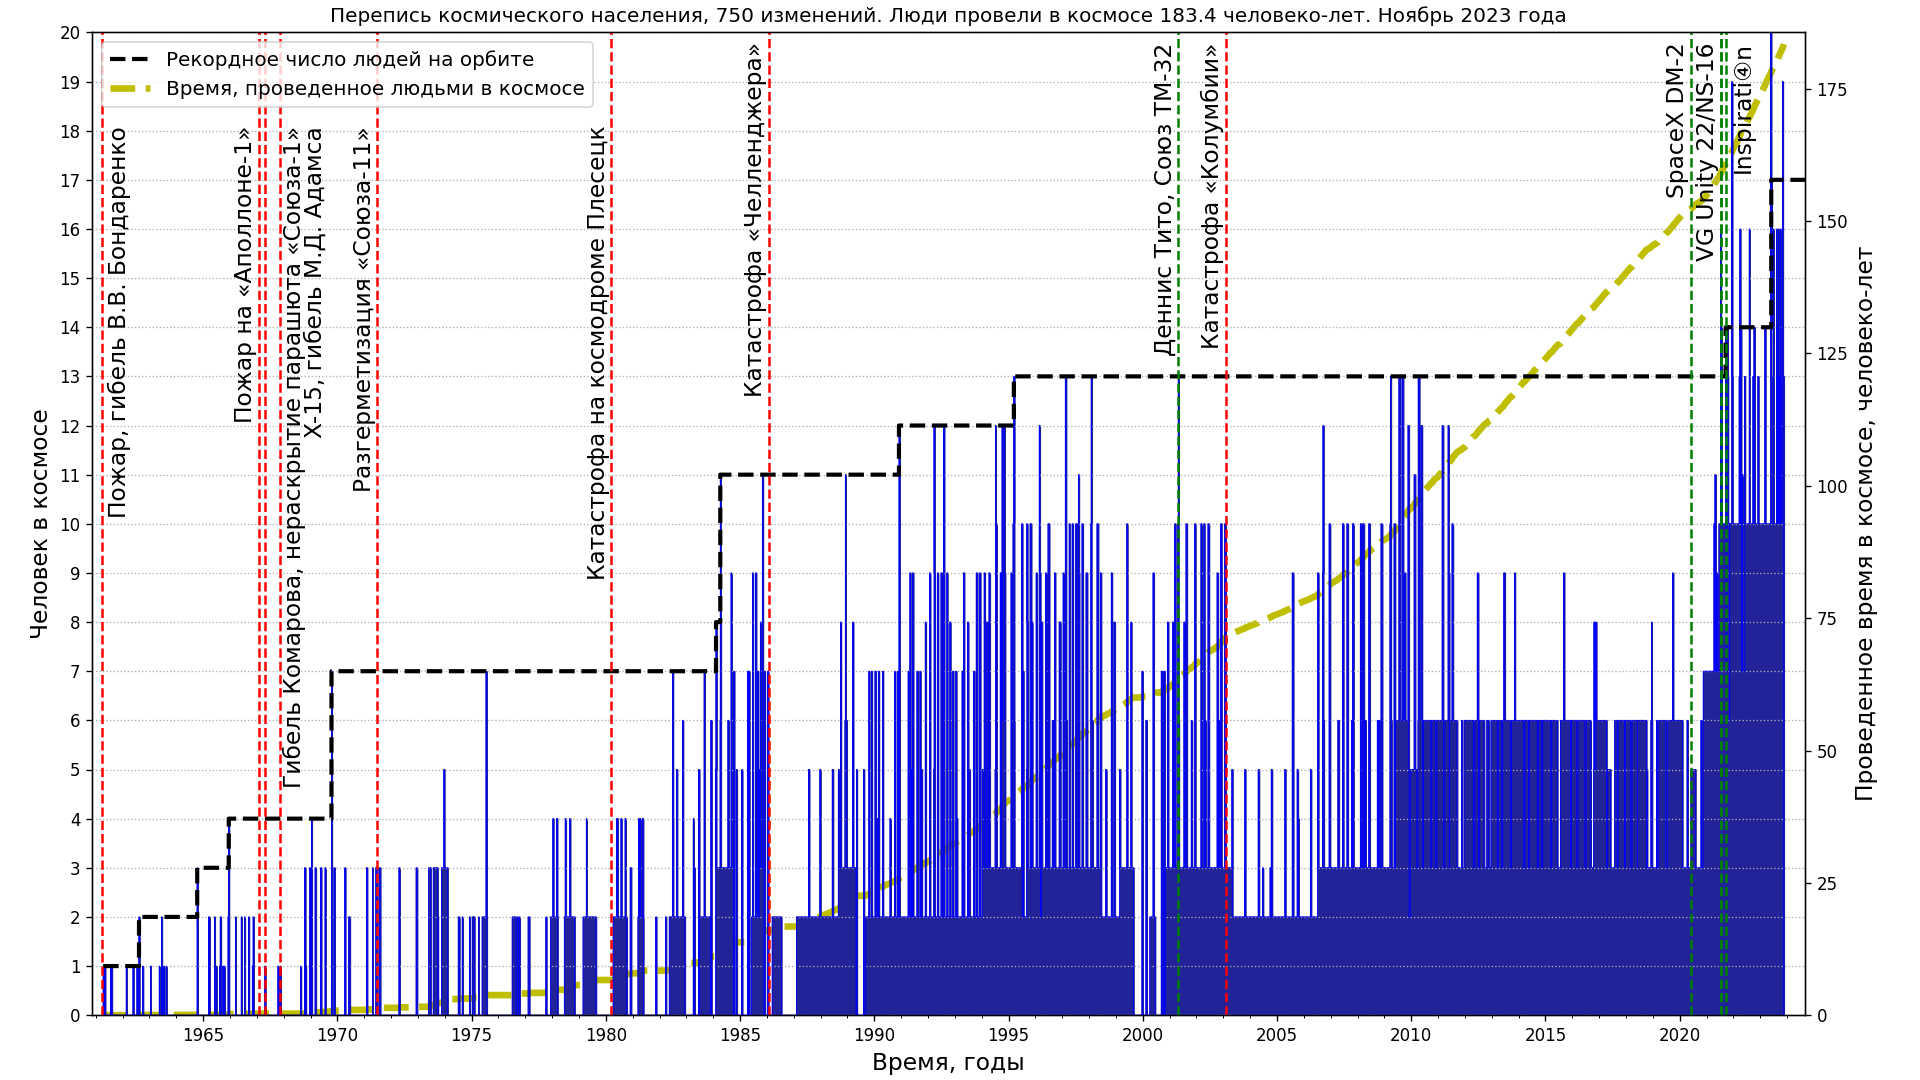
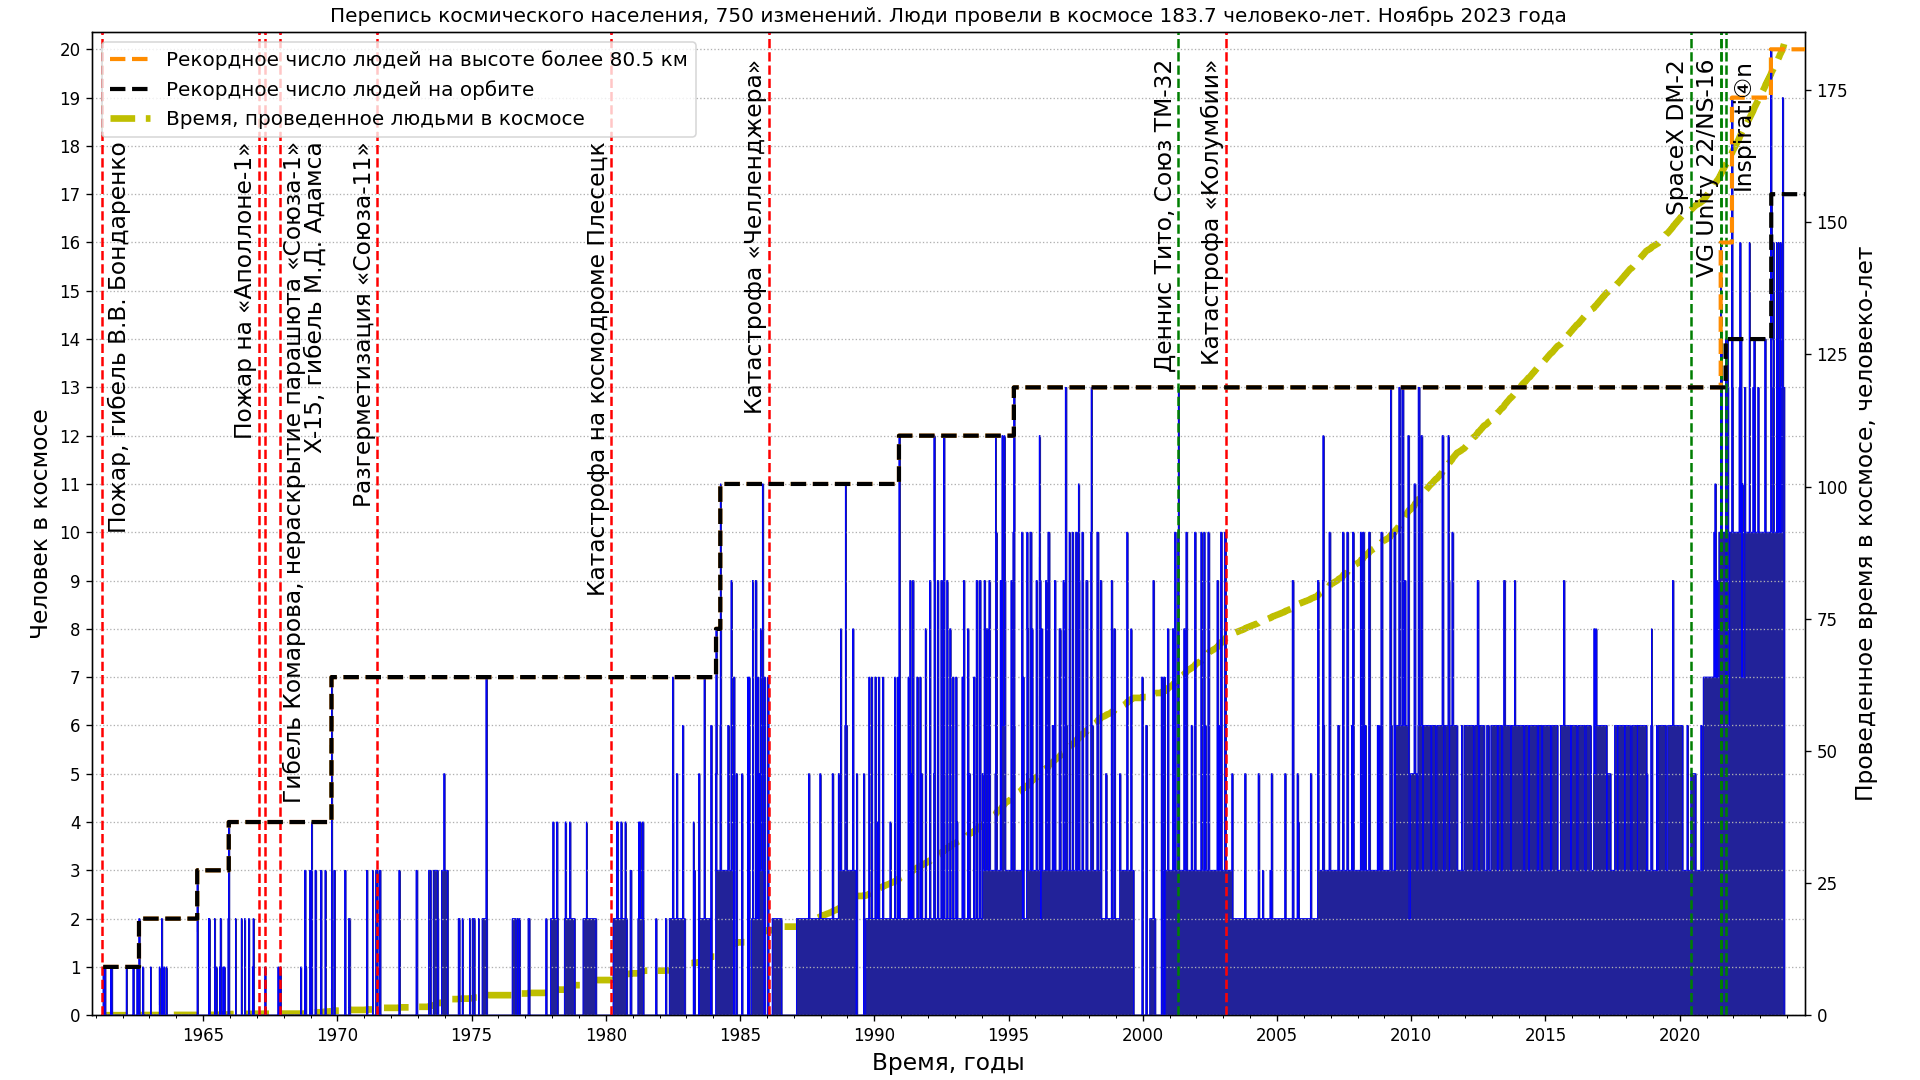
Update plots and code, new GCVS data update

diff --git a/src/astrodata/manned/plot_space_population_graph.py b/src/astrodata/manned/plot_space_population_graph.py
@@ -203,13 +203,13 @@ for i, tr in enumerate(data[3:]):
         "recop": int(tds[4].text),
     })
 
-dataj = dataj[::-1]
 mjds = mjds[::-1]
 nums = nums[::-1]
 orbnums = orbnums[::-1]
 recsnums = recsnums[::-1]
 reconums = reconums[::-1]
 reconums.append(reconums[-1])
+recsnums.append(recsnums[-1])
 dats = dats[::-1]
 for i, nn in enumerate(nums):
     if i:
@@ -217,6 +217,10 @@ for i, nn in enumerate(nums):
     manyr_sums.append(sum(manyrs))
 manyrs.append((Time.now().mjd - mjds[i - 1]) * nums[i - 1] / 365.2425)
 manyr_sums.append(sum(manyrs))
+
+# For reverse chronological order comment this lines:
+dataj = dataj[::-1]
+datac = datac[::-1]
 
 fig, ax = plt.subplots(figsize=(16, 9))
 fig.subplots_adjust(0.048, 0.06, 0.94, 0.97)  # 0.99
@@ -249,8 +253,10 @@ if not args.method:
     else:
         ax.step(data_to_plot, nums_to_plot, "b", where="post", lw=LW,
                 label="Число людей в космосе (высота >80 км)")
+    ax.step(dats_rec, recsnums, "--", where="post", lw=2.5, color="darkorange",
+            label="Рекордное число людей на высоте более 80.5 км", zorder=3)
     ax.step(dats_rec, reconums, "--k", where="post", lw=2.5,
-            label="Рекордное число людей на орбите")
+            label="Рекордное число людей на орбите", zorder=4)
 else:
     ax.stairs(nums, data_to_plot, fill=args.filled, alpha=1, color="b")  # baseline=None
 
@@ -269,14 +275,15 @@ if args.spent:
     ax2.set_ylabel(f'{msgs["ttimelbl"]}, {msgs["manyr"]}', fontsize=14)
 ax.set_facecolor("none")
 ax.set_zorder(1)
-YLIM = 20
+YSHIFT = 0.35
+YLIM = 20 + YSHIFT
 ax.set_ylim(0, YLIM)
 ax.set_xlabel(msgs["xlbl"], fontsize=14)
 ax.set_ylabel(msgs["ylbl3"], fontsize=14)
 
 TM = timedelta(weeks=48)
 TM_SHIFT = timedelta(weeks=12)
-SH, SH2 = 0.2, 1.9  # 1.2
+SH, SH2 = 0.2 + YSHIFT, 1.9 + YSHIFT
 accidents = [
     # (1960, 10, 24, 'Катастрофа на космодроме Байконур, МБР Р-16', SH, TM),
     (1961, 3, 23, msgs["fb"], SH2, -TM_SHIFT),
@@ -323,10 +330,11 @@ plt.title(
 METHD = "stairs" if args.method else "steps"
 FILENAME = f"spacepop-{'spent-' if args.spent else ''}{METHD}{'-filled' if args.filled else ''}"
 
+LOC = "-ru" if args.translate else ""
 FILE_EXT = "png"
 plots_dir = os.path.join(os.pardir, os.pardir, os.pardir, "plots", "manned")
-tmp_pth = os.path.join(plots_dir, f"{FILENAME}_.{FILE_EXT}")
-pth = os.path.join(plots_dir, f"{FILENAME}.{FILE_EXT}")
+tmp_pth = os.path.join(plots_dir, f"{FILENAME}{LOC}_.{FILE_EXT}")
+pth = os.path.join(plots_dir, f"{FILENAME}{LOC}.{FILE_EXT}")
 plt.savefig(tmp_pth, dpi=120)
 
 if FILE_EXT == "svg":

diff --git a/src/astrodata/stars/plot_variable_stars_counts.py b/src/astrodata/stars/plot_variable_stars_counts.py
@@ -139,6 +139,7 @@ gcvs_dates = [
         "2004-01-01", "2009-06-07",
         "2011-04-03", "2012-02-26", "2013-04-30", "2016-12-31", "2018-09-17",
         "2020-07-06", "2022-03-31",
+        "2023-11-10",
     ]
 ]
 gcvs_nums = [
@@ -150,9 +151,10 @@ gcvs_nums = [
     38.624, 41.639,
     43.675, 45.835, 47.969, 52.011, 52.011,
     54.979, 58.202,
+    59.279,
 ]
-gcvs_dates.append(today)
-gcvs_nums.append(gcvs_nums[-1])
+# gcvs_dates.append(today)
+# gcvs_nums.append(gcvs_nums[-1])
 
 fig, ax = plt.subplots(figsize=(16, 9))
 plt.ylim(0, vsx_nums[-1] + 60)
@@ -167,7 +169,11 @@ plt.plot(
 )
 plt.plot(
     [datetime(2023, 6, 4)], [124.100], "*k", ms=12,
-    label="Транзиенты и вспышки сверхновых, >121700 вспышек и >124100 транзиентов",
+    # label="Транзиенты и вспышки сверхновых, >121700 вспышек и >124100 транзиентов",
+)
+plt.plot(
+    [datetime(2023, 11, 20)], [134.393], "*k", ms=12,
+    label="Транзиенты и вспышки сверхновых, более 134300 транзиентов",
 )
 plt.title(
     f"Количество переменных звезд. Всего {vsx_vars} звезд в VSX, "
@@ -192,7 +198,7 @@ if FILE_EXT == "svg":
     os.remove(TMP_PTH)
 
 fig, ax = plt.subplots(figsize=(16, 9))
-plt.ylim(0, 60)
+plt.ylim(0, 62)
 td = timedelta(weeks=60)
 plt.xlim(gcvs_dates[0] - td, today + td)
 plt.subplots_adjust(left=0.06, bottom=0.06, right=0.97, top=0.955)
@@ -202,8 +208,7 @@ plt.plot(
     label="Именованные переменные звезды в ОКПЗ, 58035 звезд",
 )
 plt.title(
-    f"Количество переменных звезд. Всего {vsx_vars} звезд в VSX, "
-    + f"{round(vsx_vars/9948644.04, 2)}% переменных звезд исследовано. "
+    f"Количество переменных звезд. Всего {vsx_vars} объектов в VSX и {int(gcvs_nums[-1] * 1000)} в ОКПЗ. "
     + f"{MONTH} {YEAR} года", fontsize=16,
 )
 plt.xlabel("Год", fontsize=14)
